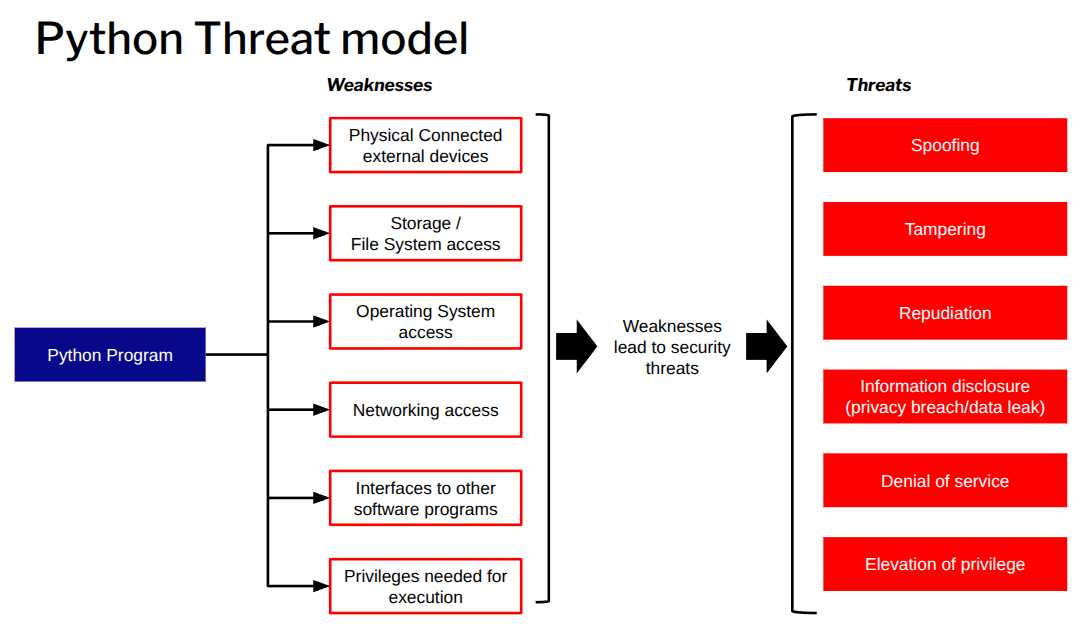
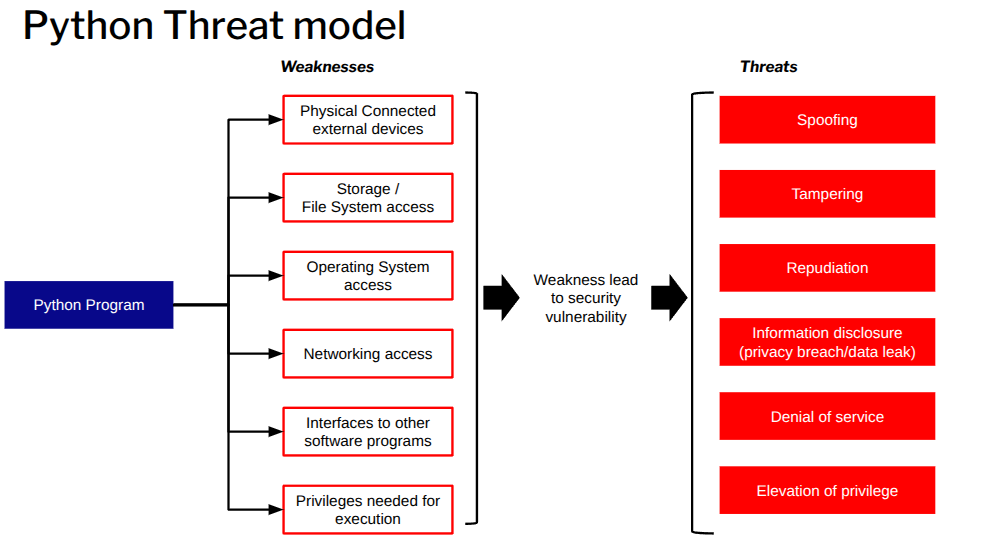
fix

Changed region(s): [[0.0, 0.0, 0.994, 0.9802], [0.6834, 0.0919, 0.994, 0.2757]]

diff --git a/fundamentals/whatissast.md b/fundamentals/whatissast.md
@@ -139,6 +139,8 @@ To use a Python SAST scanner effectively, it is vital to understand the differen
 **Weakness (or potential security issue):**  
 A weakness is a flaw, error, poor design choice, or unsafe programming practice in your code that *might* create security problems under certain conditions. It represents an increased risk, but it is not necessarily exploitable in your specific context.
 
+Weaknesses do not create or lead to threats; rather, they act as an open door for existing threats.
+
 Examples in Python:
 
 - Using `eval()` on user input. This is a weakness because it allows arbitrary code execution **if** misused.
@@ -154,7 +156,16 @@ A vulnerability is a weakness that can be **actually exploited** by an attacker 
 
 :::{important}
 A weakness becomes a vulnerability only when the right conditions, inputs, and attacker capabilities align. Many weaknesses remain harmless in practice, while others can become critical depending on how and where the application runs.
+
+So: Weaknesses lead to vulnerabilities, not threats.
 :::
+
+Example:
+1. A developer introduces a Weakness (e.g., forgets to sanitize inputs).
+2. Because this code is deployed in a live environment, it becomes a Vulnerability (an open door).
+3. A Threat (the hacker) discovers the vulnerability and exploits it.
+4. This results in a Security Incident or breach. But this security incident can be **prevented** when using a Python SAST tool before deployment. 
+
 
 ### Why This Distinction Matters
 

diff --git a/fundamentals/threatmodel.md b/fundamentals/threatmodel.md
@@ -45,6 +45,13 @@ Below the core high level Python Treat model:
 
 ![python threat model](../images/threatmodel.png)
 
+In strict security engineering, a weakness and a vulnerability are not the same thing.
+
+- Weakness ([CWE)](https://cwe.mitre.org/index.html)): This is a type of flaw, mistake, or bug in software, hardware, or system architecture. It is an internal characteristic of the code or design (e.g., "failing to validate user input" or "using a weak encryption algorithm"). A weakness exists in a vacuum, regardless of whether it is deployed or targeted.
+
+- Vulnerability [(CVE)](https://www.cve.org/About/Overview): This occurs when a weakness is actually present in a specific, deployable system, and an attacker can realistically exploit it to cause harm.
+
+A weakness is Python code can become a vulnerability only when it exists in a real-world environment where it is reachable and exploitable by a threat.
 
 
 ## STRIDE Threat Model
